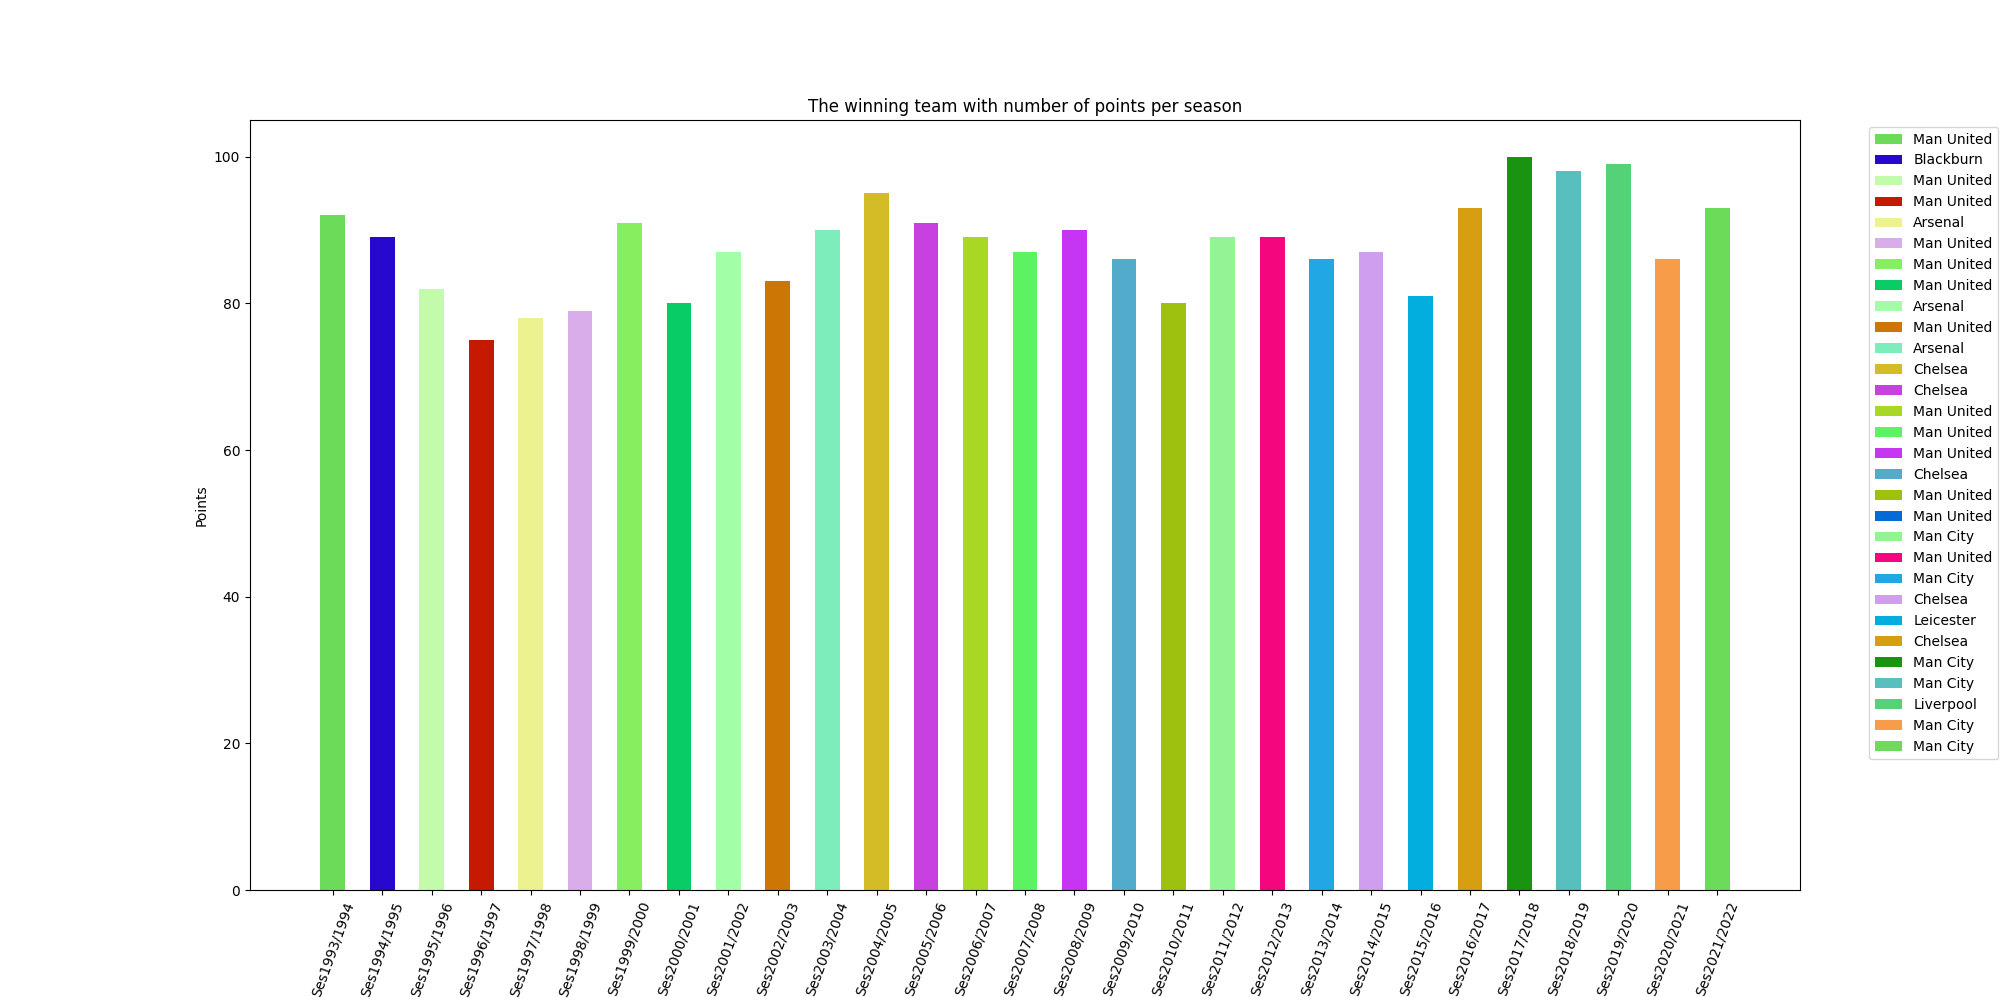
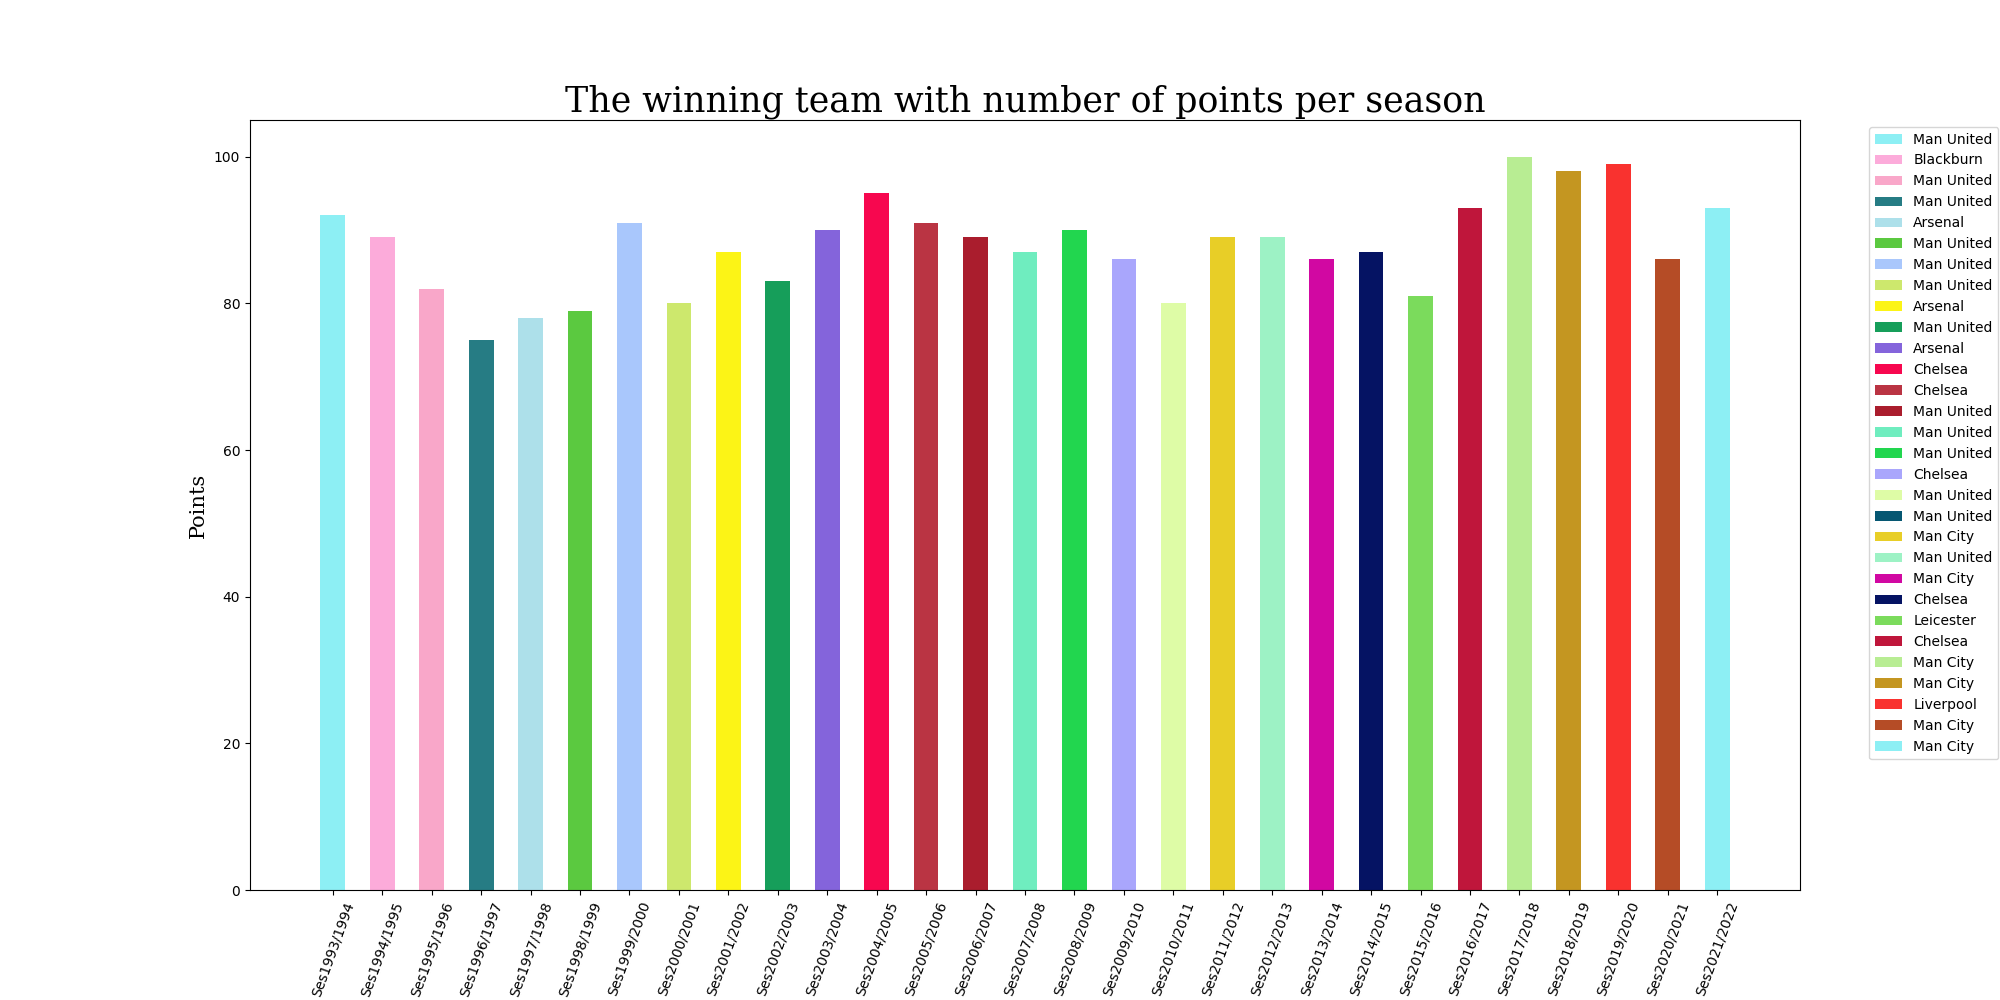
Feat: add visualization for task visu 3

diff --git a/templates/visualization.html b/templates/visualization.html
@@ -8,10 +8,14 @@
 <p>Page description about project.</p>
 
 <ul class="list-group list-group-flush">
-    <li class="list-group-item">Description task and page with choosen visualization, show query for get result</li>
-    <li class="list-group-item">Description task and page with choosen visualization, show query for get result</li>
+    <li class="list-group-item">
+        ...
+    </li>
     <li class="list-group-item">
         <img src="{{url_for('static', filename='./charts/chart_task_2.png')}}" class="d-block w-100" alt="Chart">
+    </li>
+    <li class="list-group-item">
+        <img src="{{url_for('static', filename='./charts/chart_task_3.png')}}" class="d-block w-100" alt="Chart">
     </li>
 
 </ul>

diff --git a/app.py b/app.py
@@ -135,16 +135,46 @@ def visualization():
             colors.append(i)
         color_list = [item for sublist in colors for item in sublist]
 
+        font1 = {'family': 'serif', 'color': 'black', 'size': 25}
+        font2 = {'family': 'serif', 'color': 'black', 'size': 15}
         plt.figure(figsize=(20, 10))
-        fig = plt.bar(df_task_vis_2["Season"],
-                      df_task_vis_2["Points"],
-                      label=df_task_vis_2["Club"], color=color_list, width=0.5)
-        plt.title("The winning team with number of points per season")
-        plt.xlabel('Season')
+        plt.bar(df_task_vis_2["Season"],
+                df_task_vis_2["Points"],
+                label=df_task_vis_2["Club"], color=color_list, width=0.5)
+        plt.title("The winning team with number of points per season",
+                  fontdict=font1)
+        plt.xlabel('Season', fontdict=font2)
         plt.xticks(rotation=70)
-        plt.ylabel('Points')
+        plt.ylabel('Points', fontdict=font2)
         plt.legend(bbox_to_anchor=(1.04, 1), loc="upper left")
         plt.savefig('./static/charts/chart_task_2.png')
+
+        sql_file_task_vis_3 = "./sql_files/task_vis_3.sql"
+        df_task_vis_3 = get_dataframe_from_sql(sql_file_task_vis_3)
+        df_task_vis_3.columns = ['Season', 'Goals']
+
+        plt.figure(figsize=(20, 10))
+        plt.plot(df_task_vis_3["Season"],
+                 df_task_vis_3["Goals"],
+                 c='#0dbcae', marker='o')
+        plt.title("Total golas per season", fontdict=font1)
+        plt.xlabel('Season', fontdict=font2)
+        plt.xticks(rotation=70)
+        plt.ylabel('Goals', fontdict=font2)
+        plt.grid()
+
+        for x, y in zip(df_task_vis_3["Season"], df_task_vis_3["Goals"]):
+            label = "{:.0f}".format(y)
+
+            plt.annotate(label,
+                         (x, y),
+                         textcoords="offset points",
+                         xytext=(0, 15),
+                         ha='center',
+                         arrowprops=dict(arrowstyle="->", color='black'))
+
+        plt.savefig('./static/charts/chart_task_3.png')
+
     finally:
         return render_template('visualization.html')
 
